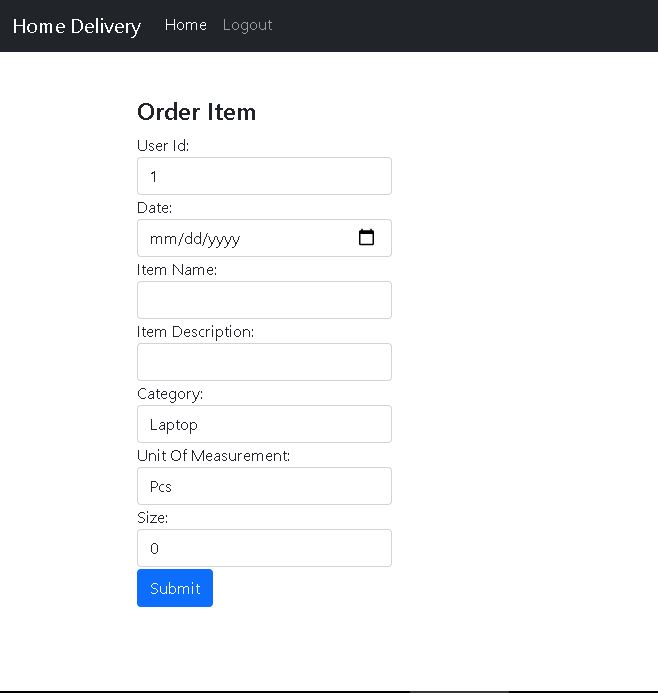
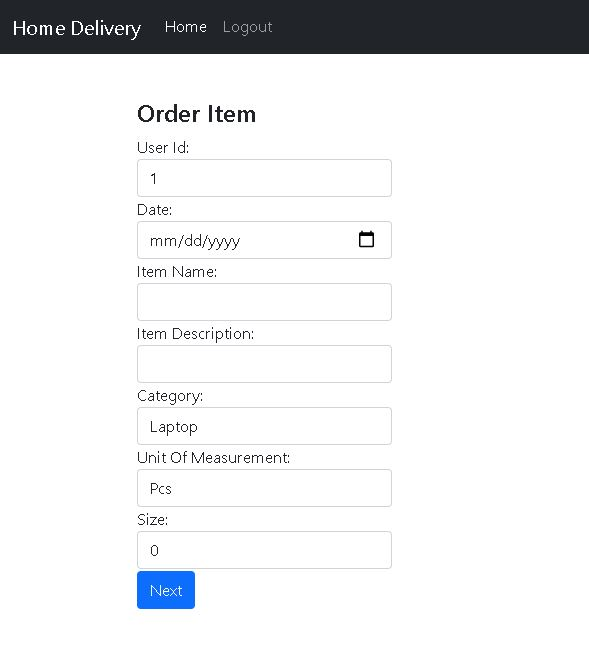
Amendmening the ui for order Item

diff --git a/src/main/resources/templates/User/registration.html b/src/main/resources/templates/User/registration.html
@@ -73,7 +73,7 @@
                     <input id="password" class="form-control"  type="password" th:field="*{password}" required autofocus="autofocus">
                 </div>
                 <div class="form-group">
-                    <button type="submit" class="btn btn-success">Register</button>
+                    <button type="submit" class="btn btn-primary">Register</button>
                     <span>Already registered? <a href="/" th:href="@{/login}">Login here</a> </span>
                 </div>
             </form>

diff --git a/src/main/resources/templates/User/login.html b/src/main/resources/templates/User/login.html
@@ -64,7 +64,7 @@
                  placeholder="Enter Your Password" autofocus ="autofocus">
         </div>
         <div class="form-group">
-          <button type="submit" class="btn btn-success">Login</button>
+          <button type="submit" class="btn btn-primary">Login</button>
 
 <!--        <div class="form-group">-->
 

diff --git a/src/main/resources/templates/OrderItem.html b/src/main/resources/templates/OrderItem.html
@@ -103,7 +103,7 @@
 
                 </div>
 
-    <button style="margin-top:2px" type="submit" class="btn btn-primary">Submit</button>
+    <button style="margin-top:2px" type="submit" class="btn btn-primary">Next</button>
         </div>
 </form>
         </div>

diff --git a/src/main/resources/templates/conformation.html b/src/main/resources/templates/conformation.html
@@ -91,7 +91,7 @@
     </div>
 
 </div>
-<button   class="btn btn-success" type="submit"> Confirm </button>
+<button   class="btn btn-primary"type="submit"> Confirm </button>
     </form>
 </div>
 </body>
